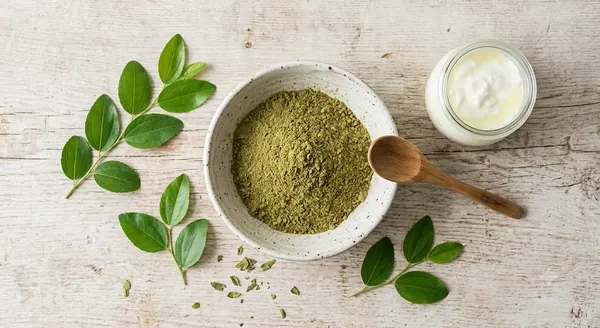
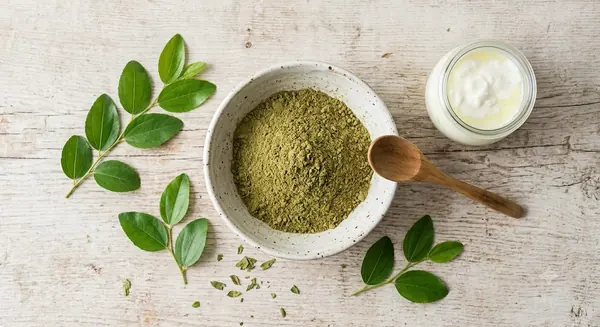
Recompression couverture recettes (JPG 169 Ko, webp 1200/600) + KPI Bing du 16/10

Changed region(s): [[0.48, 0.367, 0.51, 0.3976], [0.45, 0.4587, 0.48, 0.4893]]

diff --git a/KPI-TRACKING.md b/KPI-TRACKING.md
@@ -56,7 +56,7 @@ Chaque vendredi, ajouter une nouvelle ligne en bas du tableau (ne jamais supprim
 | 25/09/2026 | 4 visites / 4 pages vues (Cloudflare, bots exclus, 7 jours ; pages observees : /poudre-de-sidr, /article-origine-histoire-sidr, /article-recettes-masques-sidr et un article sidr-*) | 8 | 187 | 8.5 (CTR 4.3 %) | 5 (130 impressions sur 7 jours, CTR 3.8 % -- calcul a partir de la serie quotidienne 16-22/09) | Non disponible sur 7 jours cette semaine : le selecteur de periode "7 D" de Bing n'a pas pu etre applique au tableau des mots-cles dans l'environnement automatise (le tableau reste sur 3 mois, ou les 5 requetes les plus vues sont en position 1.5 a 7.5) | article-sidr-et-henne-cheveux.html |
 | 02/10/2026 | 3 visites / 3 pages vues (Cloudflare, bots exclus, 7 jours ; pages observees : /article-recettes-masques-sidr et un article sidr-*) | 9 | 243 | 9.2 (CTR 3.7 %) | 1 (75 impressions sur 7 jours, CTR 1.33 % -- la serie Bing s'arrete au 28/09, soit 4 jours de donnees seulement) | 4.6 (moyenne ponderee des 18 requetes listees, 43 impressions -- Bing ne fournit pas de position moyenne globale) | article-poudre-de-sidr-avis.html |
 | 09/10/2026 | 6 visites / 6 pages vues (Cloudflare, bots exclus, 7 jours ; volume trop faible pour un classement de pages fiable -- l'echantillon Core Web Vitals ne cite que / et /poudre-de-sidr) | 7 | 466 | 9.1 (CTR 1.5 %) | 5 (183 impressions, CTR 2.73 % -- onglet 7 D : la serie Bing ne couvre que 5 jours, 02-06/10, avec 3 jours de retard ; sur les 7 jours calendaires 30/09-06/10 : 11 clics / 252 impressions, CTR 4.4 %) | 4.6 (moyenne ponderee des 25 requetes listees sur 31, 85 impressions -- Bing ne fournit pas de position moyenne globale) | article-ghassoul-et-sidr.html |
-| 16/10/2026 | 10 visites / 11 pages vues (Cloudflare, bots exclus, 7 jours ; pages observees dans l'echantillon Core Web Vitals : /article-ghassoul-et-sidr, /poudre-de-sidr, /article-faq-sidr, /article-recettes-masques-sidr) | 18 | 867 | 7.5 (CTR 2.1 % ; periode GSC 07-13/10) | Non disponible (session Bing Webmaster deconnectee cette semaine -- login Microsoft requis, a reconnecter manuellement) | -- | article-sidr-egypte-ancienne.html |
+| 16/10/2026 | 10 visites / 11 pages vues (Cloudflare, bots exclus, 7 jours ; pages observees dans l'echantillon Core Web Vitals : /article-ghassoul-et-sidr, /poudre-de-sidr, /article-faq-sidr, /article-recettes-masques-sidr) | 18 | 867 | 7.5 (CTR 2.1 % ; periode GSC 07-13/10) | 6 clics / 252 impressions, CTR 2.38 % (onglet 7 D : la serie Bing ne couvre que 6 jours, 09-14/10, avec 2 jours de retard ; sur les 7 jours calendaires 08-14/10 : 7 clics / 301 impressions, CTR 2.3 %) | 4.6 (moyenne ponderee des 25 requetes listees sur 30, 144 impressions -- Bing ne fournit pas de position moyenne globale) | article-sidr-egypte-ancienne.html |
 
 ## Recommandations en cours
 
@@ -65,7 +65,7 @@ Cette section est reecrite chaque semaine avec les recommandations actives (gard
 - **Impressions encore gonflees par une requete parasite -- ne pas surinterpreter le CTR.** « lefildastrid.fr cheveux bienfaits » (requete de navigation vers un AUTRE site) passe de 33 a 107 impressions, toujours 0 clic, soit 12 % des 867 impressions de la semaine. Hors cette requete : 18 clics pour ~760 impressions, CTR ~2,4 %. Les clics, eux, montent nettement (7 -> 18) et la position moyenne s'ameliore (9.1 -> 7.5). Aucune action a mener sur cette requete ; continuer a la sortir mentalement des totaux.
 - **Premiers effets encourageants (a confirmer) des titles reecrits le 09/10/2026.** Sur /article-sidr-coran-islam, le groupe « sidrat al muntaha » / « sidrat al-muntaha » / « sidr islam hadith » (43 + 6 + 11 = 60 impressions) donne 2 clics, contre 0 clic pour ~42 impressions la semaine precedente. Sur /article-recettes-masques-sidr, « recette masque sidr #cheveux » et « masque sidr cheveux » donnent 2 clics. Echantillon minuscule et periode GSC (07-13/10) a cheval sur la modification : ne rien conclure avant 2 semaines de plus, mais ne pas retoucher ces metas d'ici la.
 - **NOUVEAU -- vitesse d'affichage : LCP mediocre sur mobile.** Cloudflare (Core Web Vitals, 7 jours) : LCP P75 a 4,7 s, 33 % des chargements classes « Poor ». L'element le plus lent est la couverture de /article-recettes-masques-sidr (img-cover-recettes.webp, LCP 11,7 s sur 3 mesures) ; le JPG source du miroir local fait 228 Ko, au-dessus de la regle des 200 Ko, et aucune variante 600 px n'y figure. Action : recompresser img-cover-recettes (JPG <= 200 Ko, webp allege) et, si elle manque dans le depot, generer une variante -600.webp a declarer dans le srcset et le preload de la page -- c'est aussi l'une des deux pages dont le title vient d'etre retravaille.
-- **Bing a reconnecter (session perdue).** La session Bing Webmaster Tools du navigateur est deconnectee cette semaine (redirection vers la page publique, connexion Microsoft requise) : aucune donnee Bing au 16/10. Bing etait la 2e source de clics (5 clics / 183 impressions la semaine precedente) : se reconnecter manuellement avant le 23/10 pour ne pas creer de trou dans l'historique.
+- **Bing reconnecte le 16/10/2026 (releve complete).** 6 clics / 252 impressions, CTR 2.38 % (6 jours de donnees) : meme constat que sur Google, les positions sont bonnes (« sidr » 5.2 avec 50 impressions, « poudre de sidr » 4.6 avec 25) mais ces requetes de tete n'ont genere aucun clic cette semaine. Continuer a travailler les extraits (title/meta) de la home et de /poudre-de-sidr. Sur 30 jours, « sidr apres henne » (position 2.5) et « poudre de jujubier bienfaits » (4.6) convertissent a 12-25 % : bon signal pour le maillage sidr/henne.
 - **Prochain sujet : pas de signal de recherche pour departager #8, #9, #10, #11.** Le sujet #6 (Egypte ancienne) est publie ce 16/10. Aucune requete GSC ne pointe vers la grossesse/allaitement (#8), le fruit (#9), le Sahel (#10) ou la culture du jujubier (#11) ; seule « sidr vert » (5 impressions, position 10.8) apparait comme intention nouvelle, sans sujet dedie. Par defaut, suivre l'ordre du plan (#8) en restant tres prudent sur le registre sante.
 
 ## Ou trouver les chiffres
